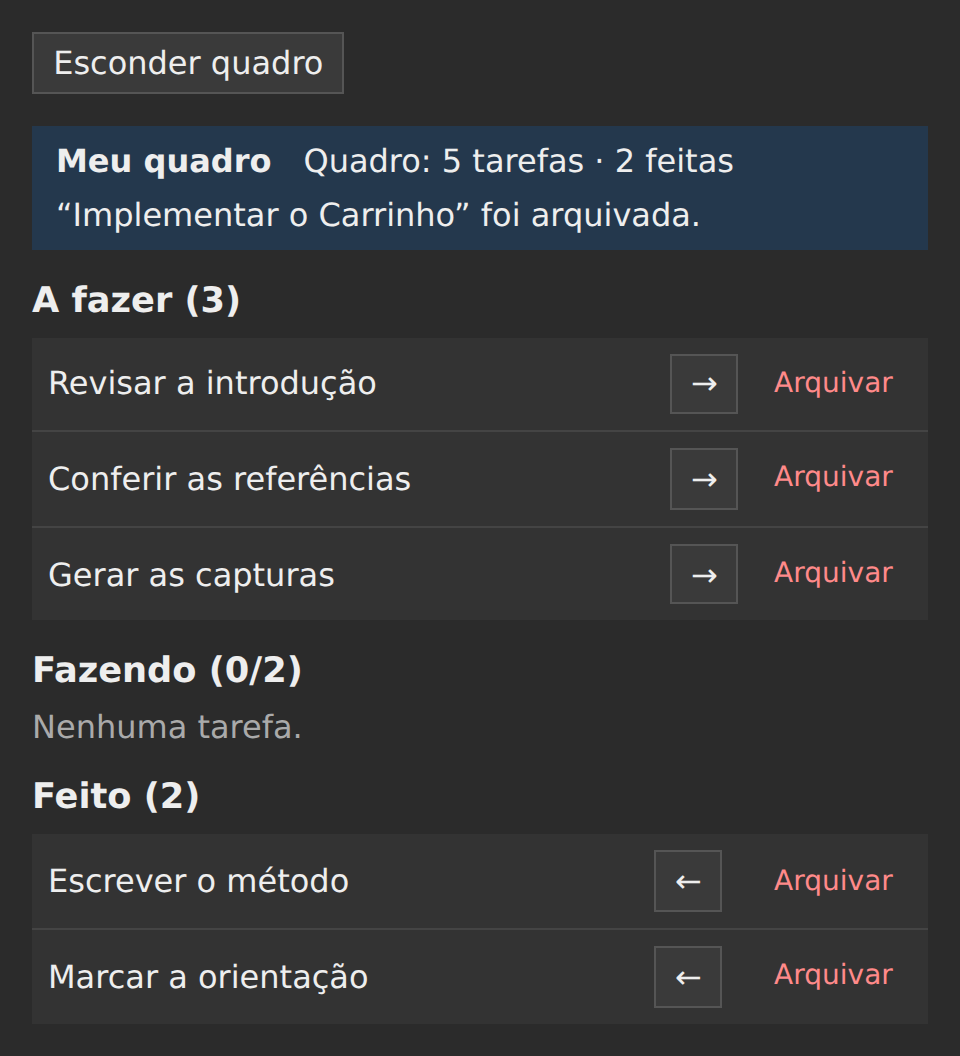
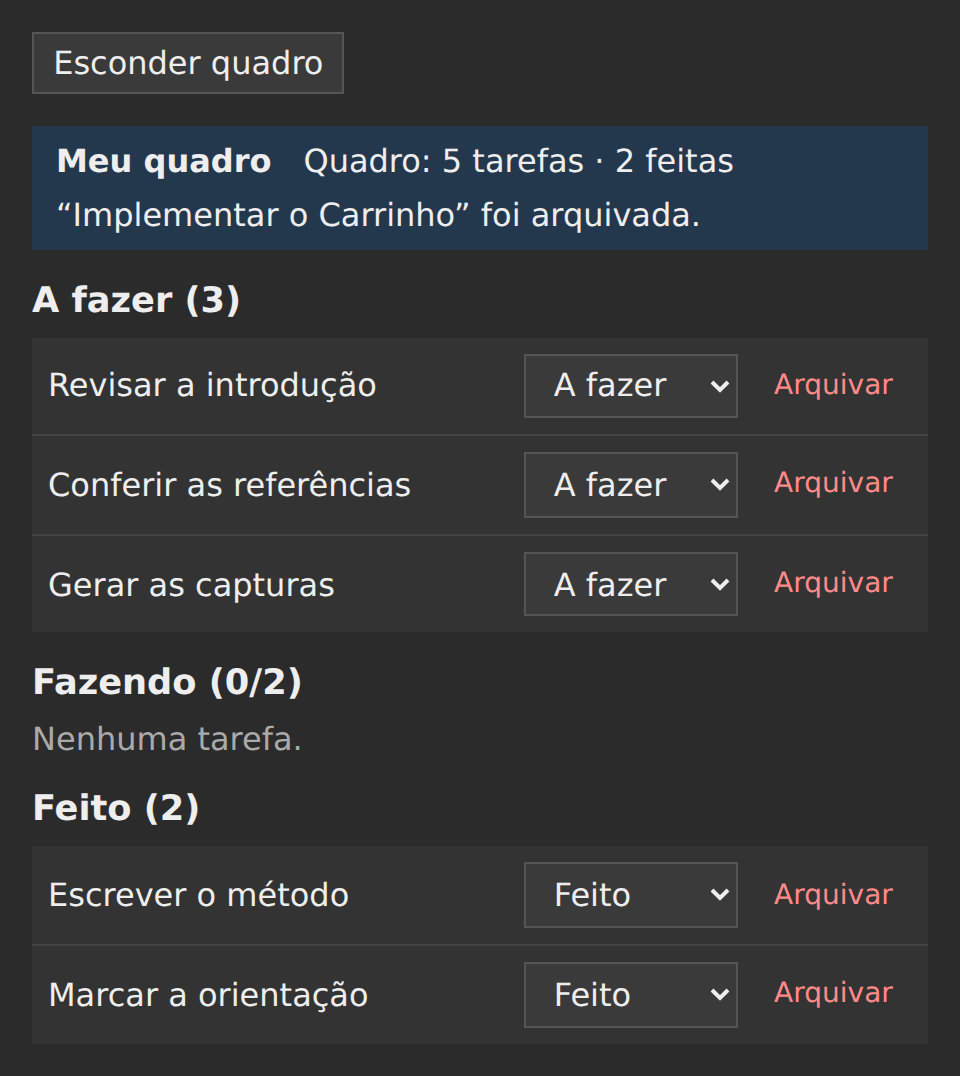
Troca as setas do Quadro pela lista da coluna no Web Component
O Web Component do Quadro ainda cria, para cada tarefa, os botões "←" e
"→" para a coluna vizinha, e falha no teste de conformidade da
especificação nova, que procura a lista "Coluna de <título>" com as
três colunas.

Cada tarefa ganha um <select> criado com createElement, como o resto
do item, com uma opção por coluna; o habilitado de cada opção vem do
podeIr do domínio, e o change leva a tarefa pela loja, como o clique
das setas levava. Some o espaço vazio que fazia o lugar da seta ausente
nas pontas. As cenas escolhem "Fazendo" na lista de "Revisar a
introdução" em vez de clicar no botão de mover.

Testado: o teste de conformidade passa 24/24 no build; sem o disabled
das opções, falha "4 Fazendo cheia desabilita só a opção Fazendo nas
outras colunas", e com o cabeEm no lugar do podeIr, "4 Fazendo cheia
deixa sair dela". Três capturas mudam, inicial, fazendo-cheia e
coluna-vazia, com a lista mostrando a coluna de cada tarefa; as das
outras tecnologias ficam para os commits delas.

diff --git a/implementacoes/quadro-de-tarefas/web-component/src/main.ts b/implementacoes/quadro-de-tarefas/web-component/src/main.ts
@@ -1,16 +1,16 @@
 import {
+  COLUNAS,
   MENSAGENS,
   anunciarArquivamento,
   anunciarMovimento,
-  cabeEm,
   carregarQuadro,
   ouvirOutrasAbas,
+  podeIr,
   salvarQuadro,
   tarefa,
   textoDaColuna,
   textoDoCabecalho,
   tituloDa,
-  vizinhas,
   type Coluna,
   type EstadoDoQuadro,
 } from "../../dominio";
@@ -156,20 +156,13 @@ class ColunaDoQuadro extends ComponenteDoQuadro {
   protected atualizar() {
     const { estado } = this.loja;
     const ids = estado[this.coluna];
-    const { anterior, proxima } = vizinhas(this.coluna);
     this.titulo.textContent = textoDaColuna(estado, this.coluna);
-    this.lista.replaceChildren(
-      ...ids.map((id) => this.item(id, anterior, proxima)),
-    );
+    this.lista.replaceChildren(...ids.map((id) => this.item(id)));
     this.lista.hidden = ids.length === 0;
     this.aviso.hidden = ids.length > 0;
   }
 
-  private item(
-    id: number,
-    anterior: Coluna | undefined,
-    proxima: Coluna | undefined,
-  ) {
+  private item(id: number) {
     const nome = tarefa(id).titulo;
     const titulo = document.createElement("span");
     titulo.className = "titulo";
@@ -183,32 +176,26 @@ class ColunaDoQuadro extends ComponenteDoQuadro {
       this.loja.arquivar(id, this.coluna),
     );
     const item = document.createElement("li");
-    item.append(
-      titulo,
-      this.mover(id, nome, anterior, "←"),
-      this.mover(id, nome, proxima, "→"),
-      arquivar,
-    );
+    item.append(titulo, this.colunaDa(id, nome), arquivar);
     return item;
   }
 
-  // Sem coluna vizinha, um espaço vazio no lugar do botão.
-  private mover(
-    id: number,
-    nome: string,
-    para: Coluna | undefined,
-    sinal: string,
-  ) {
-    if (!para) return document.createElement("span");
-    const botao = document.createElement("button");
-    botao.type = "button";
-    botao.setAttribute("aria-label", `Mover ${nome} para ${tituloDa(para)}`);
-    botao.disabled = !cabeEm(this.loja.estado, para);
-    botao.textContent = sinal;
-    botao.addEventListener("click", () =>
-      this.loja.mover(id, this.coluna, para),
+  // A lista mostra a coluna da tarefa; escolher outra a leva para lá.
+  private colunaDa(id: number, nome: string) {
+    const lista = document.createElement("select");
+    lista.setAttribute("aria-label", `Coluna de ${nome}`);
+    for (const coluna of COLUNAS) {
+      const opcao = document.createElement("option");
+      opcao.value = coluna;
+      opcao.textContent = tituloDa(coluna);
+      opcao.disabled = !podeIr(this.loja.estado, this.coluna, coluna);
+      lista.append(opcao);
+    }
+    lista.value = this.coluna;
+    lista.addEventListener("change", () =>
+      this.loja.mover(id, this.coluna, lista.value as Coluna),
     );
-    return botao;
+    return lista;
   }
 }
 
